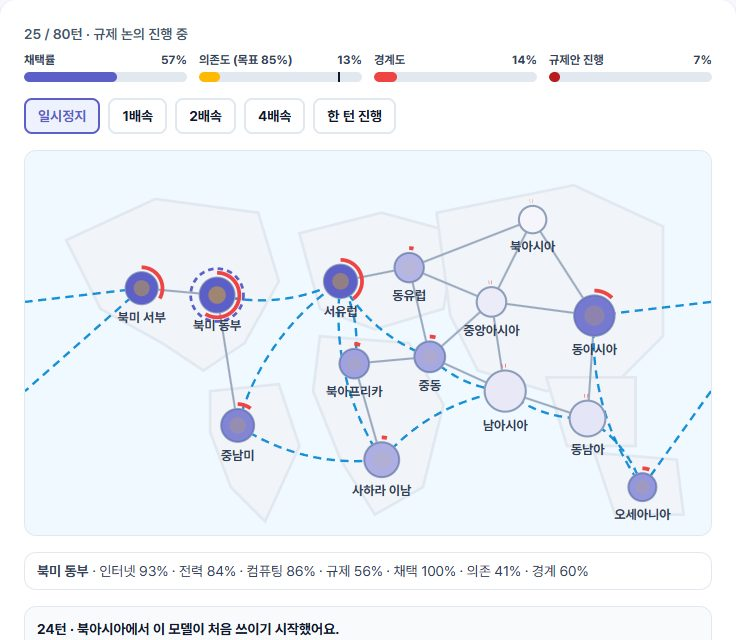
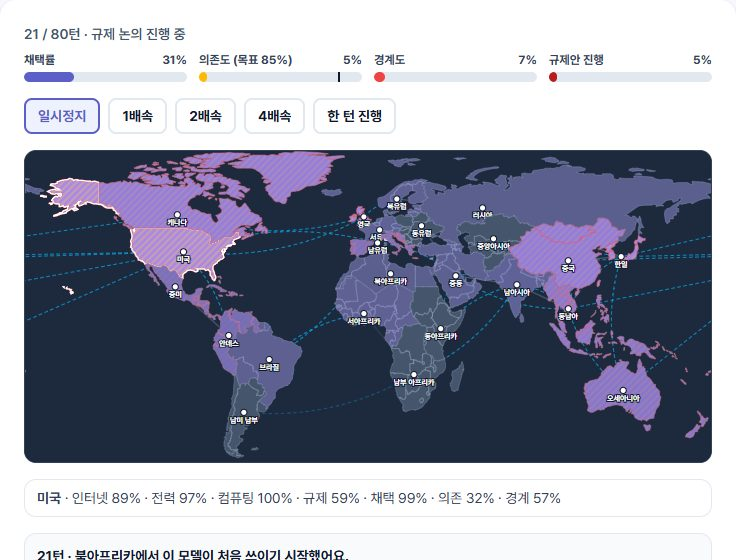
FIX 폭주 모델 썸네일과 공유 이미지를 세계 지도로 교체

diff --git a/README.md b/README.md
@@ -49,7 +49,7 @@
 | Hidden Rule | 퍼즐 | 약 3분 | 모바일 · PC | ○ ✕ 카드 예시로 숨은 규칙을 추리하는 가설 검증 퍼즐 |
 | 버그 접수처 | 시뮬레이션 | 약 5분 | 모바일 · PC | 밀려드는 버그 신고를 날마다 바뀌는 정책서대로 분류하는 접수 시뮬레이션 |
 | 소문 한 마디 | 시뮬레이션 | 약 5분 | 모바일 · PC | 60명 마을에서 소문을 퍼뜨리고 막는 전파 시뮬레이션. 사람 유형을 읽고 별 9개에 도전 |
-| 폭주 모델 | 시뮬레이션 | 약 8분 | 모바일 · PC | 해저 케이블과 클라우드를 타고 14개 권역으로 퍼지는 AI가 되어 규제안과 경주하는 확산 시뮬레이션 |
+| 폭주 모델 | 시뮬레이션 | 약 8분 | 모바일 · PC | 해저 케이블과 클라우드를 타고 23개 권역으로 퍼지는 AI가 되어 규제안과 경주하는 확산 시뮬레이션 |
 
 <br>
 
